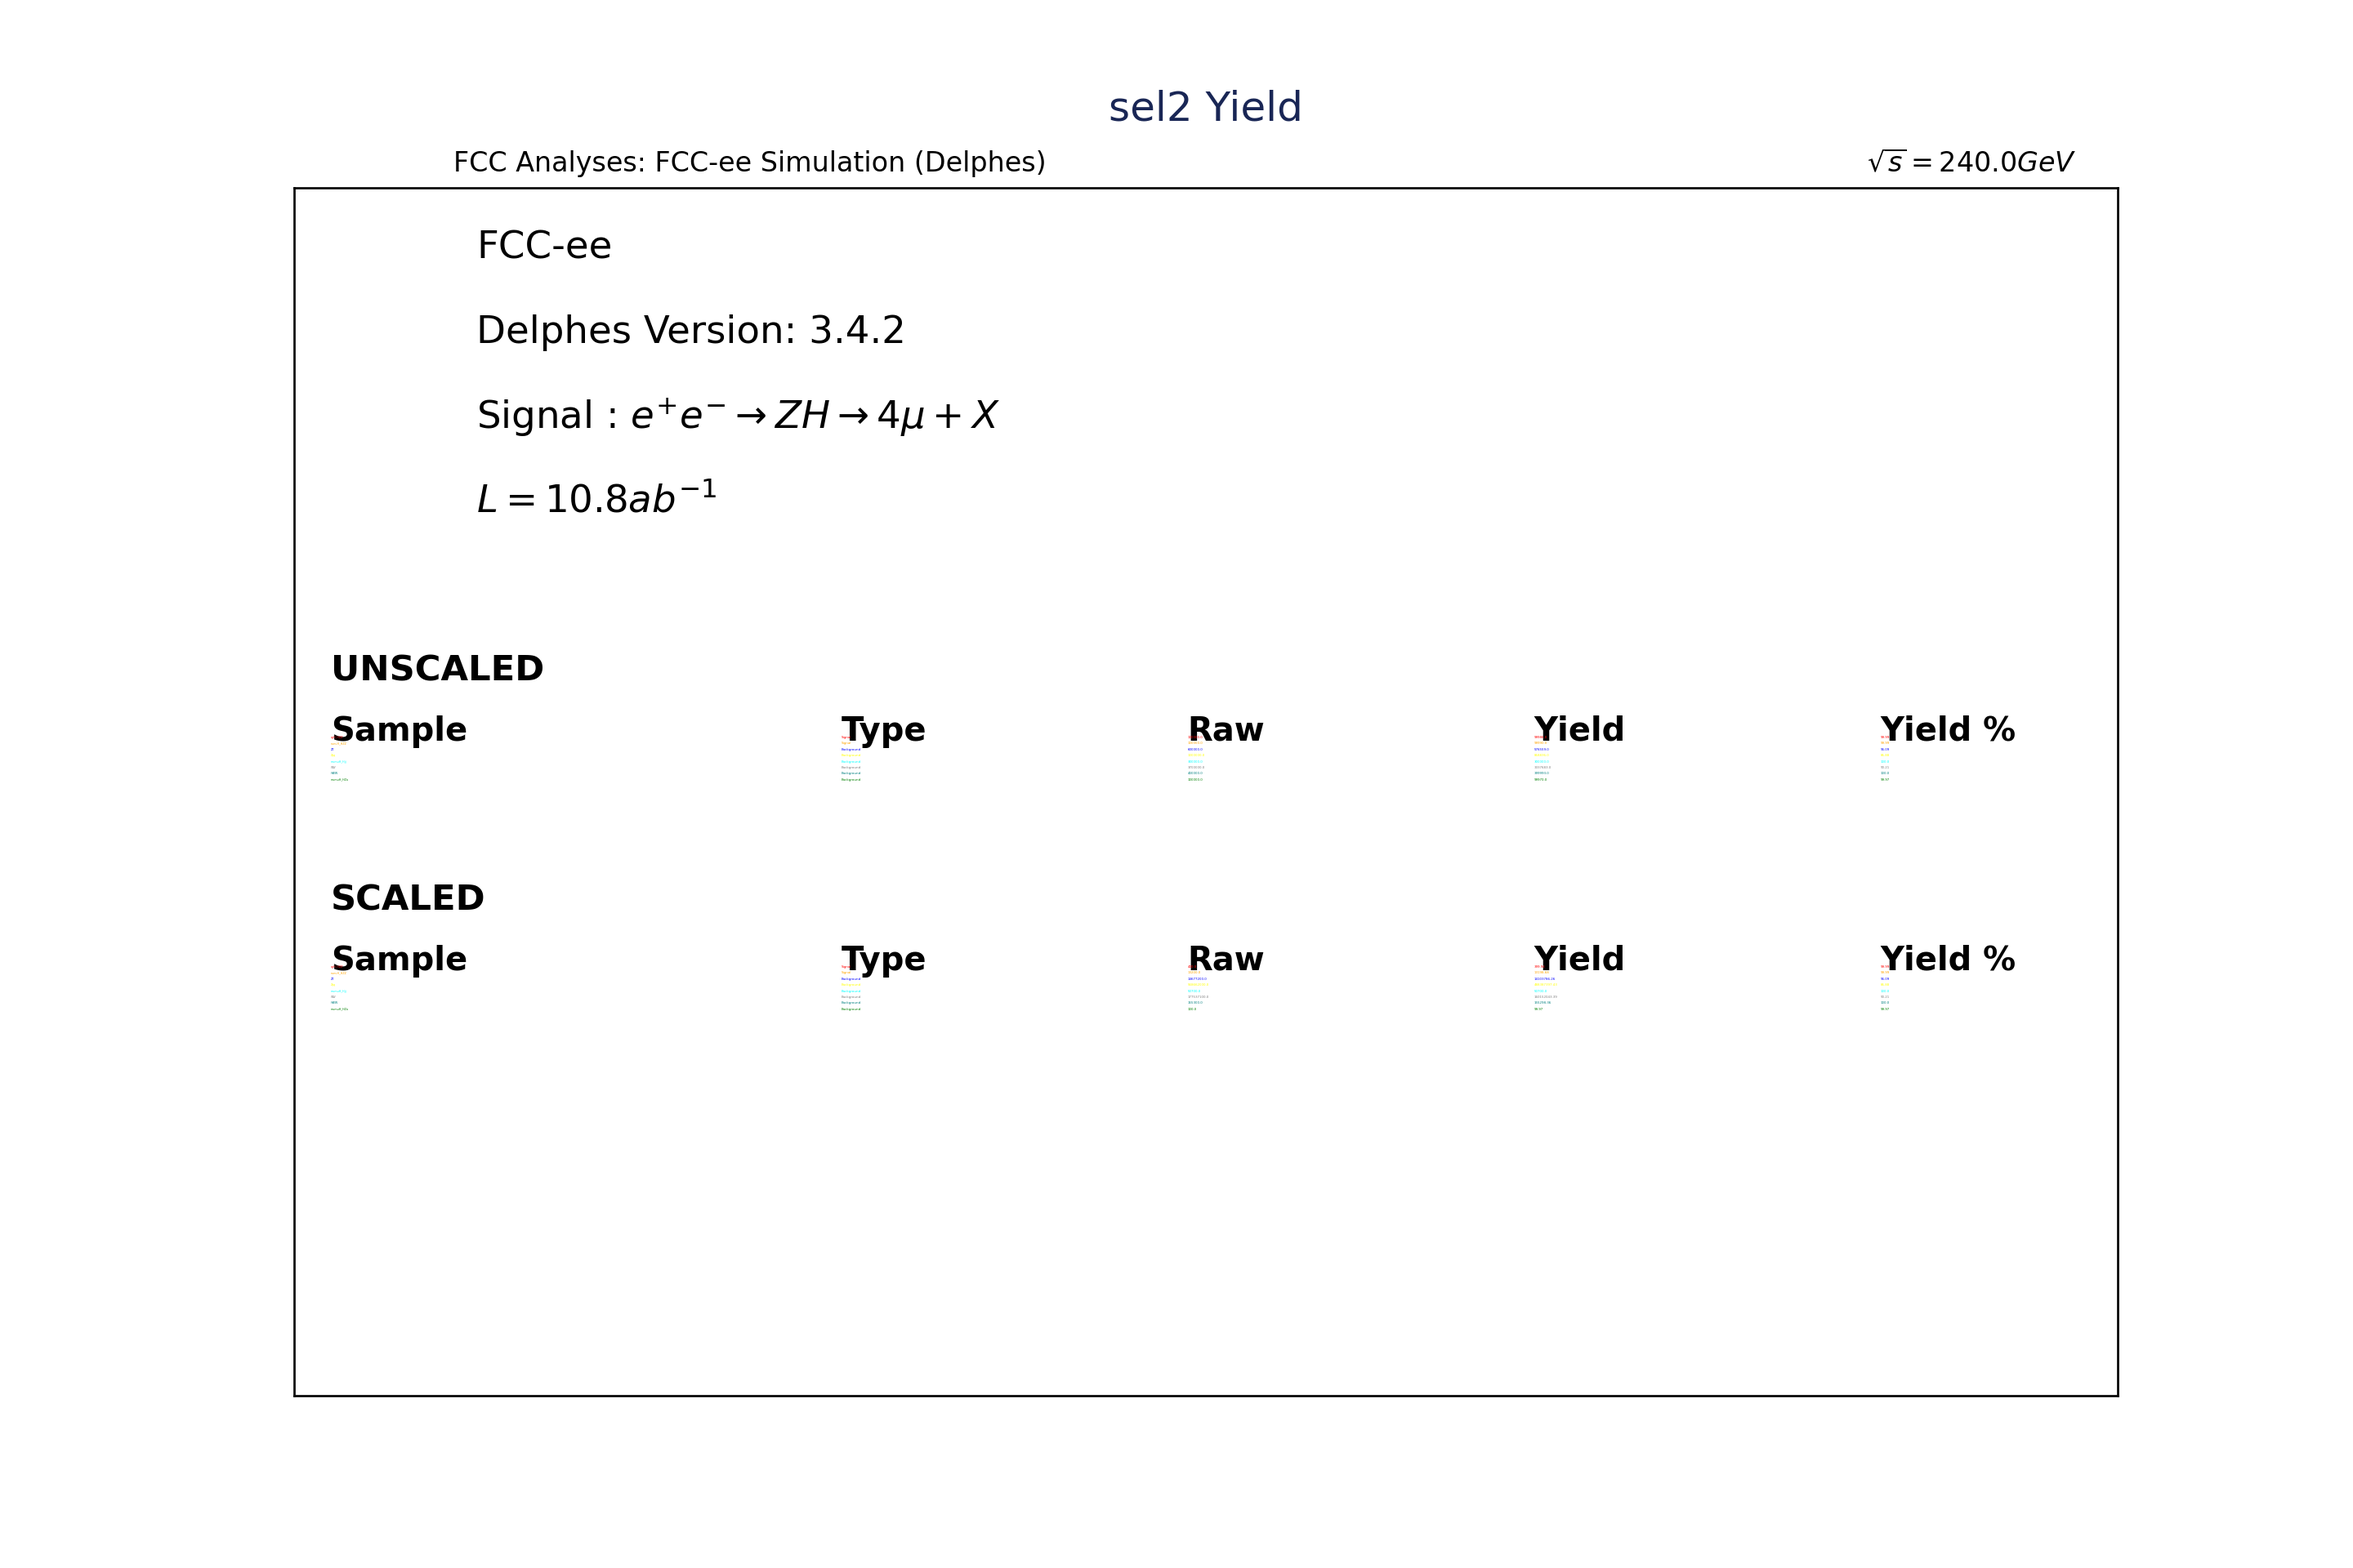
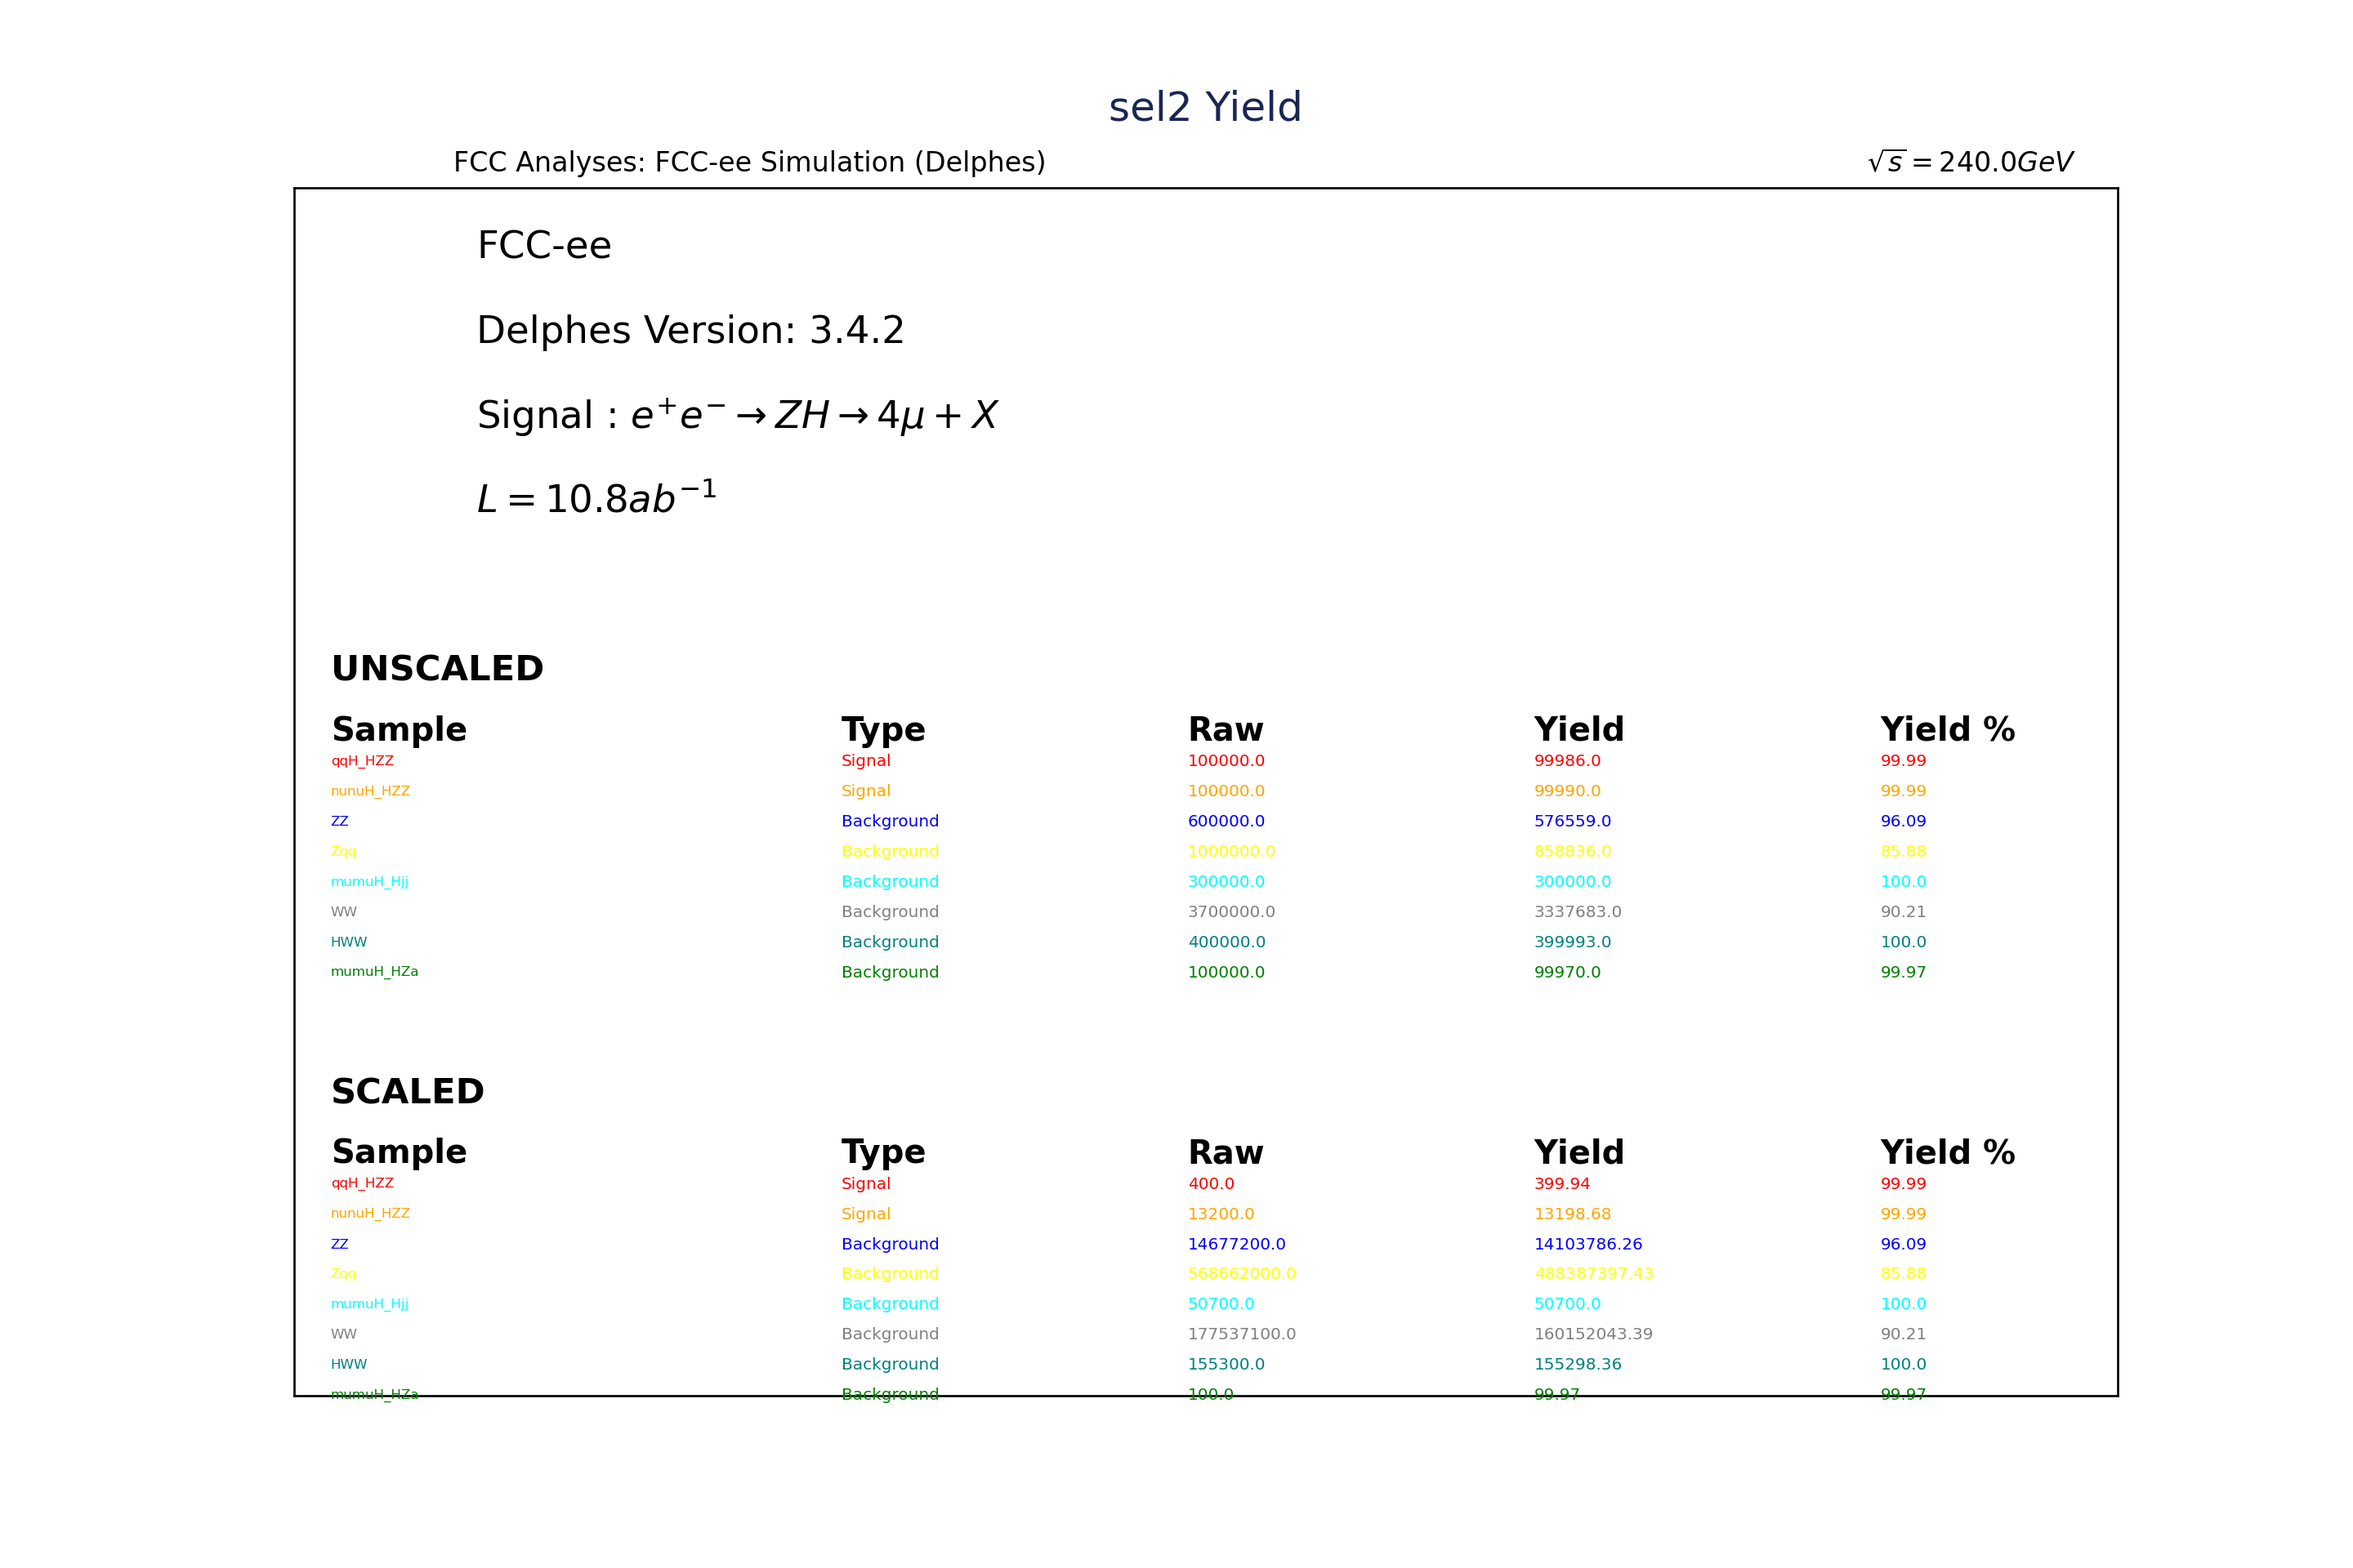
Decreased font size in the yeild plots

diff --git a/examples/FCCee/higgs/4leptons/plotter.py b/examples/FCCee/higgs/4leptons/plotter.py
@@ -83,7 +83,7 @@ def yield_plot(name, title, keys, scaled, unscaled, formats, path, plot_width=8,
     ax.text(0.10, 0.74, '$L = '+str(intLumi/1e6)+' ab^{-1}$', fontsize=14, horizontalalignment='left', verticalalignment='center', transform=ax.transAxes)
 
     level, linespacing = 0.60, 0.05
-    table_scale = 0.1
+    table_scale = 0.5
     for scale,obs in zip(['UNSCALED','SCALED'],[unscaled,scaled]):
         ax.text(0.02, level, scale, weight='bold', fontsize=13, horizontalalignment='left', verticalalignment='center', transform=ax.transAxes)
         level -= linespacing
